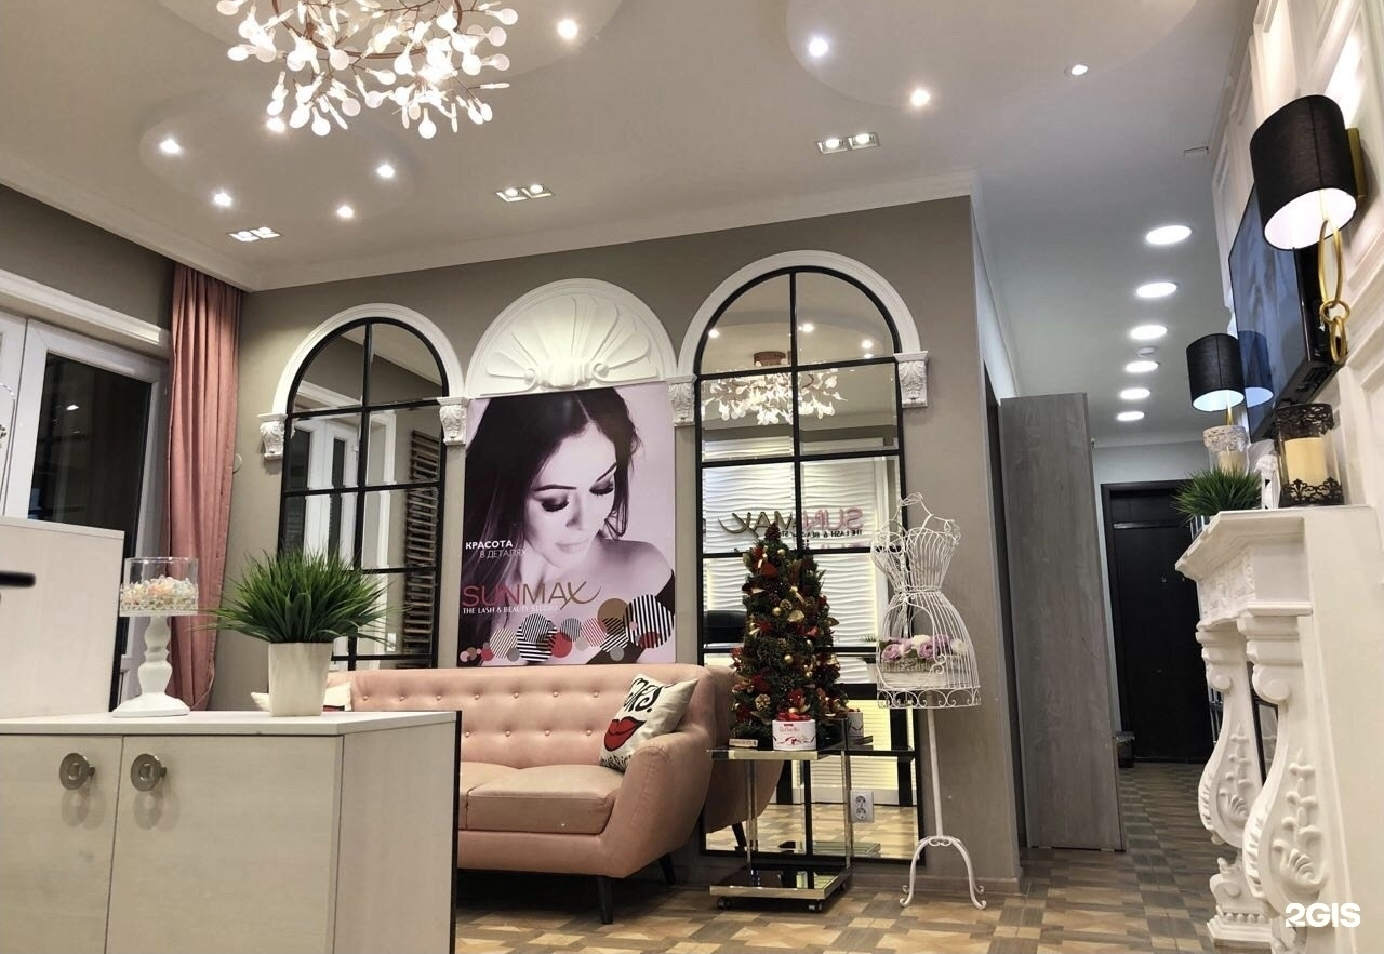
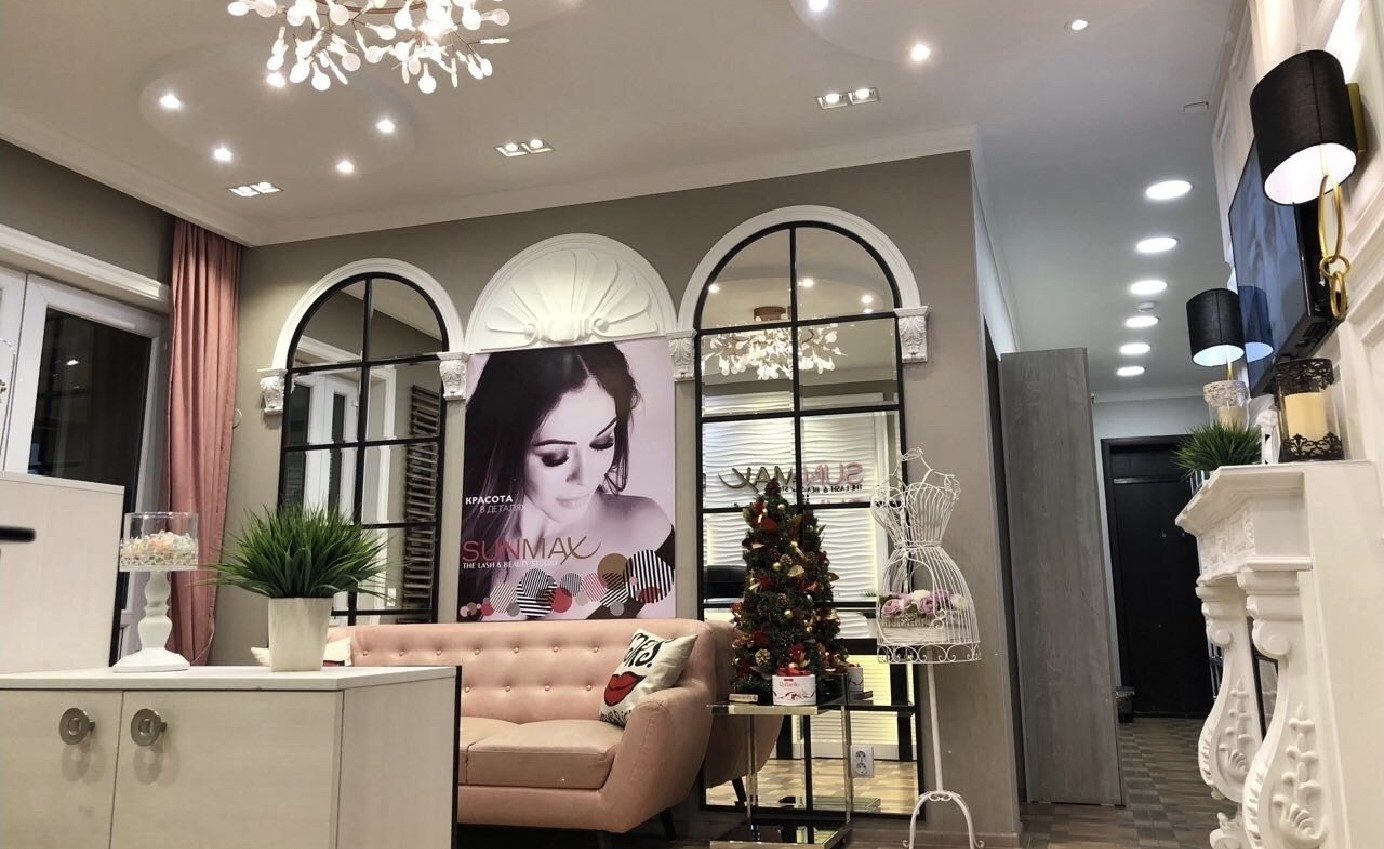
Sun Max

diff --git a/style.css b/style.css
@@ -638,6 +638,11 @@ h3 { font-size: 1.35rem; }
 
 .about-card-inner {
   text-align: center;
+  display: flex;
+  flex-direction: column;
+  align-items: center;
+  justify-content: center;
+  min-height: 380px;
 }
 
 .about-card-icon { font-size: 3rem; margin-bottom: 1rem; }
